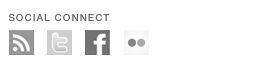
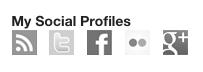
Added google plus and minor copy changes
git-svn-id: https://plugins.svn.wordpress.org/ep-social-widget/trunk@489299 b8457f37-d9ea-0310-8a92-e5e31aec5664

Changed region(s): [[0.0296, 0.1667, 0.6502, 0.7778], [0.798, 0.4167, 0.9458, 0.7778], [0.6207, 0.5278, 0.7389, 0.6667]]

diff --git a/ep_social_widget.php b/ep_social_widget.php
@@ -1,10 +1,10 @@
 <?php
 /*
 Plugin Name: EP Social Widget
-Plugin URI: http://earthpeople.se/labs/2012/01/ep-social-widget-tiny-social-widget-for-wordpress/
-Description: Very small and easy to use widget to display social icons on your site. Facebook, twitter, flicker and RSS feed
+Plugin URI: http://www.earthpeople.se
+Description: Very small and easy to use widget to display social icons on your site. Facebook, Twitter, Flickr, Google Plus and RSS feed
 Author: Mattias Hedman, Earth People AB
-Version: 0.1.1
+Version: 0.2.0
 Author URI: http://www.earthpeople.se
 */
 
@@ -48,6 +48,7 @@ class epSocialWidget extends WP_Widget{
 		$twitter = $instance['twitter'];
 		$flickr = $instance['flickr'];
 		$rss = $instance['rss'];
+		$gplus = $instance['gplus'];
 		
 		echo $before_widget;
 		?>
@@ -70,6 +71,10 @@ class epSocialWidget extends WP_Widget{
 			
 			<?php if($flickr) : ?>
 			<a href="<?php echo $flickr; ?>" target="_blank"><img src="<?php echo plugins_url('icon-flickr.gif', __FILE__); ?>" alt="" /></a>
+			<?php endif; ?>
+			
+			<?php if($gplus) : ?>
+			<a href="<?php echo $gplus; ?>" target="_blank"><img src="<?php echo plugins_url('icon-gplus.gif', __FILE__); ?>" alt="" /></a>
 			<?php endif; ?>
 		</div>
 		
@@ -118,12 +123,23 @@ class epSocialWidget extends WP_Widget{
 			$instance['flickr'] = '';
 		}
 		
+		if(!empty($new_instance['gplus'])) {
+			$gp = strip_tags($new_instance['gplus']);		
+			if(preg_match($pattern1, $gp) || preg_match($pattern2, $gp)){
+				$instance['gplus'] = $gp;
+			} else {
+				$instance['gplus'] = 'http://'.$gp;
+			}		
+		} else {
+			$instance['gplus'] = '';
+		}
+		
 		return $instance;
 	}
 
 	// Widget backend
 	function form($instance) {
-		$default = array('title' =>'', 'twitter'=>'','facebook'=>'','flickr'=>'','rss'=>'');
+		$default = array('title' =>'', 'twitter'=>'','facebook'=>'','flickr'=>'','rss'=>'', 'gplus' =>'');
 		$instance = wp_parse_args((array)$instance,$default);
 	?>
 		<!-- TITLE -->
@@ -144,23 +160,30 @@ class epSocialWidget extends WP_Widget{
 		
 		<!-- Twitter -->
 		<p>
-			<label for="<?php echo $this->get_field_id('twitter'); ?>"><?php echo __('Twitter link:'); ?></label>
+			<label for="<?php echo $this->get_field_id('twitter'); ?>"><?php echo __('Twitter profile link:'); ?></label>
 			<br />
 			<input type="text" id="<?php echo $this->get_field_id('twitter'); ?>" name="<?php echo $this->get_field_name('twitter'); ?>" value="<?php echo $instance['twitter']; ?>" class="widefat" />
 		</p>
 		
 		<!-- Facebook -->
 		<p>
-			<label for="<?php echo $this->get_field_id('facebook'); ?>"><?php echo __('Facebook link:'); ?></label>
+			<label for="<?php echo $this->get_field_id('facebook'); ?>"><?php echo __('Facebook profile/page/group link:'); ?></label>
 			<br />
 			<input type="text" id="<?php echo $this->get_field_id('facebook'); ?>" name="<?php echo $this->get_field_name('facebook'); ?>" value="<?php echo $instance['facebook']; ?>" class="widefat" />
 		</p>
 		
 		<!-- Flickr -->
 		<p>
-			<label for="<?php echo $this->get_field_id('flickr'); ?>"><?php echo __('Flickr link:'); ?></label>
+			<label for="<?php echo $this->get_field_id('flickr'); ?>"><?php echo __('Flickr profile link:'); ?></label>
 			<br />
 			<input type="text" id="<?php echo $this->get_field_id('flickr'); ?>" name="<?php echo $this->get_field_name('flickr'); ?>" value="<?php echo $instance['flickr']; ?>" class="widefat" />
+		</p>
+		
+		<!-- Google Plus -->
+		<p>
+			<label for="<?php echo $this->get_field_id('gplus'); ?>"><?php echo __('Google Plus profile/page link:'); ?></label>
+			<br />
+			<input type="text" id="<?php echo $this->get_field_id('gplus'); ?>" name="<?php echo $this->get_field_name('gplus'); ?>" value="<?php echo $instance['gplus']; ?>" class="widefat" />
 		</p>
 	
 	<?php
